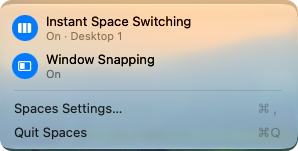
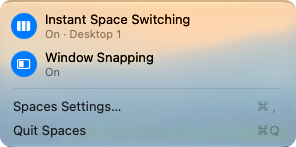
Trim the menu screenshot's edges

diff --git a/site/index.html b/site/index.html
@@ -52,7 +52,7 @@ footer a:hover { text-decoration: underline }
     <span class="brew"><code>brew install --cask gustaferiksson/tap/spaces</code><button type="button" id="copy">Copy</button></span>
   </div>
   <p class="req">Free and open source · macOS 27 on Apple silicon</p>
-  <img class="shot" src="menu.png" alt="Spaces' menu bar menu" width="298" height="151">
+  <img class="shot" src="menu.png" alt="Spaces' menu bar menu" width="296" height="147">
   <footer><a href="https://github.com/gustaferiksson/spaces">GitHub</a> · MIT License</footer>
 </main>
 <script>
